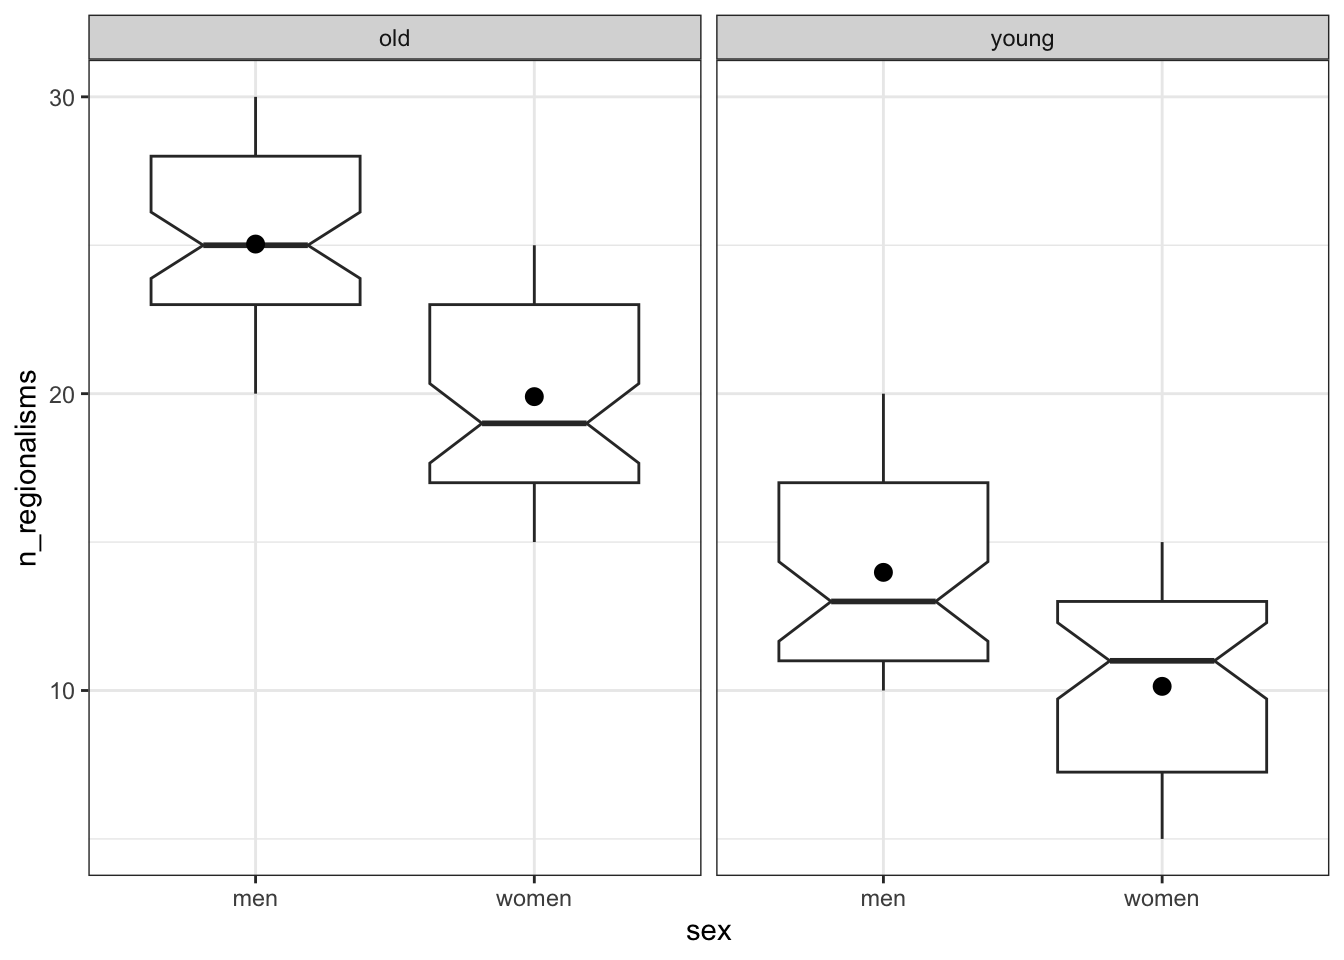
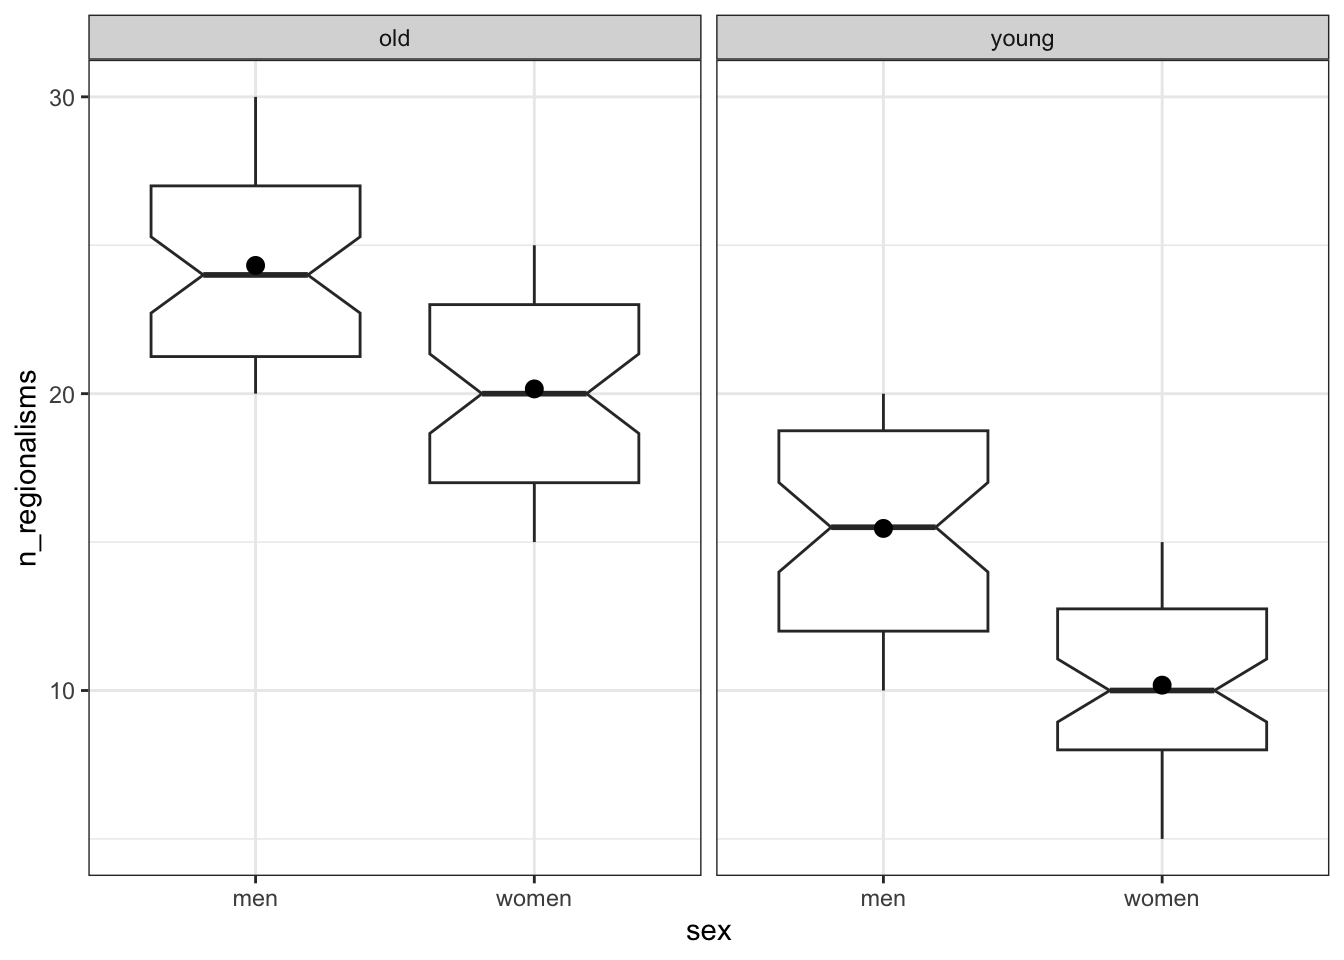
capitalization

diff --git a/docs/lessons/mixed-effects-logistic.html b/docs/lessons/mixed-effects-logistic.html
@@ -7,7 +7,7 @@
 <meta name="viewport" content="width=device-width, initial-scale=1.0, user-scalable=yes">
 
 
-<title>Lesson Plans for Linguistic Data Analysis with R - mixed-effects-logistic</title>
+<title>Lesson Plans for Linguistic Data Analysis with R - Mixed-effects logistic regression</title>
 <style>
 code{white-space: pre-wrap;}
 span.smallcaps{font-variant: small-caps;}
@@ -108,7 +108,7 @@ pre > code.sourceCode > span > a:first-child::before { text-decoration: underlin
       <button type="button" class="quarto-btn-toggle btn" data-bs-toggle="collapse" data-bs-target="#quarto-sidebar,#quarto-sidebar-glass" aria-controls="quarto-sidebar" aria-expanded="false" aria-label="Toggle sidebar navigation" onclick="if (window.quartoToggleHeadroom) { window.quartoToggleHeadroom(); }">
         <i class="bi bi-layout-text-sidebar-reverse"></i>
       </button>
-      <nav class="quarto-page-breadcrumbs" aria-label="breadcrumb"><ol class="breadcrumb"><li class="breadcrumb-item"><a href="../lessons/t-test.html">Inferential stats</a></li><li class="breadcrumb-item"><a href="../lessons/mixed-effects-logistic.html">mixed-effects-logistic</a></li></ol></nav>
+      <nav class="quarto-page-breadcrumbs" aria-label="breadcrumb"><ol class="breadcrumb"><li class="breadcrumb-item"><a href="../lessons/t-test.html">Inferential stats</a></li><li class="breadcrumb-item"><a href="../lessons/mixed-effects-logistic.html">Mixed-effects logistic regression</a></li></ol></nav>
       <a class="flex-grow-1" role="button" data-bs-toggle="collapse" data-bs-target="#quarto-sidebar,#quarto-sidebar-glass" aria-controls="quarto-sidebar" aria-expanded="false" aria-label="Toggle sidebar navigation" onclick="if (window.quartoToggleHeadroom) { window.quartoToggleHeadroom(); }">      
       </a>
       <button type="button" class="btn quarto-search-button" aria-label="" onclick="window.quartoOpenSearch();">
@@ -366,7 +366,7 @@ pre > code.sourceCode > span > a:first-child::before { text-decoration: underlin
           <li class="sidebar-item">
   <div class="sidebar-item-container"> 
   <a href="../lessons/mixed-effects-logistic.html" class="sidebar-item-text sidebar-link active">
- <span class="menu-text">mixed-effects-logistic</span></a>
+ <span class="menu-text">Mixed-effects logistic regression</span></a>
   </div>
 </li>
       </ul>
@@ -392,7 +392,7 @@ pre > code.sourceCode > span > a:first-child::before { text-decoration: underlin
 
 <header id="title-block-header" class="quarto-title-block default">
 <div class="quarto-title">
-<h1 class="title">mixed-effects-logistic</h1>
+<h1 class="title">Mixed-effects logistic regression</h1>
 </div>
 
 

diff --git a/docs/lessons/interaction.html b/docs/lessons/interaction.html
@@ -368,7 +368,7 @@ pre > code.sourceCode > span > a:first-child::before { text-decoration: underlin
           <li class="sidebar-item">
   <div class="sidebar-item-container"> 
   <a href="../lessons/mixed-effects-logistic.html" class="sidebar-item-text sidebar-link">
- <span class="menu-text">mixed-effects-logistic</span></a>
+ <span class="menu-text">Mixed-effects logistic regression</span></a>
   </div>
 </li>
       </ul>
@@ -636,24 +636,24 @@ lm(formula = n_regionalisms ~ age_group + sex + age_group:sex,
 
 Residuals:
    Min     1Q Median     3Q    Max 
- -5.14  -2.98  -0.09   3.02   6.02 
+ -5.46  -3.16  -0.17   2.82   5.68 
 
 Coefficients:
                         Estimate Std. Error t value Pr(&gt;|t|)    
-(Intercept)              25.0400     0.4591  54.544  &lt; 2e-16 ***
-age_groupyoung          -11.0600     0.6492 -17.035  &lt; 2e-16 ***
-sexwomen                 -5.1400     0.6492  -7.917 1.77e-13 ***
-age_groupyoung:sexwomen   1.3000     0.9182   1.416    0.158    
+(Intercept)              24.3200     0.4575  53.156  &lt; 2e-16 ***
+age_groupyoung           -8.8600     0.6470 -13.693  &lt; 2e-16 ***
+sexwomen                 -4.1600     0.6470  -6.429 9.56e-10 ***
+age_groupyoung:sexwomen  -1.1200     0.9150  -1.224    0.222    
 ---
 Signif. codes:  0 '***' 0.001 '**' 0.01 '*' 0.05 '.' 0.1 ' ' 1
 
-Residual standard error: 3.246 on 196 degrees of freedom
-Multiple R-squared:  0.7574,    Adjusted R-squared:  0.7537 
-F-statistic: 203.9 on 3 and 196 DF,  p-value: &lt; 2.2e-16</code></pre>
+Residual standard error: 3.235 on 196 degrees of freedom
+Multiple R-squared:  0.7307,    Adjusted R-squared:  0.7266 
+F-statistic: 177.3 on 3 and 196 DF,  p-value: &lt; 2.2e-16</code></pre>
 </div>
 <div class="sourceCode cell-code" id="cb23"><pre class="sourceCode r code-with-copy"><code class="sourceCode r"><span id="cb23-1"><a href="#cb23-1" aria-hidden="true" tabindex="-1"></a><span class="fu">AIC</span>(m3)</span></code><button title="Copy to Clipboard" class="code-copy-button"><i class="bi"></i></button></pre></div>
 <div class="cell-output cell-output-stdout">
-<pre><code>[1] 1044.53</code></pre>
+<pre><code>[1] 1043.167</code></pre>
 </div>
 </div>
 <p>The interaction term was <strong>not</strong> selected as making a significant contribution to the prediction of the number of regionalisms in this second set of fictitious data.</p>

diff --git a/docs/lessons/anova.html b/docs/lessons/anova.html
@@ -368,7 +368,7 @@ pre > code.sourceCode > span > a:first-child::before { text-decoration: underlin
           <li class="sidebar-item">
   <div class="sidebar-item-container"> 
   <a href="../lessons/mixed-effects-logistic.html" class="sidebar-item-text sidebar-link">
- <span class="menu-text">mixed-effects-logistic</span></a>
+ <span class="menu-text">Mixed-effects logistic regression</span></a>
   </div>
 </li>
       </ul>

diff --git a/docs/lessons/chi-square.html b/docs/lessons/chi-square.html
@@ -368,7 +368,7 @@ pre > code.sourceCode > span > a:first-child::before { text-decoration: underlin
           <li class="sidebar-item">
   <div class="sidebar-item-container"> 
   <a href="../lessons/mixed-effects-logistic.html" class="sidebar-item-text sidebar-link">
- <span class="menu-text">mixed-effects-logistic</span></a>
+ <span class="menu-text">Mixed-effects logistic regression</span></a>
   </div>
 </li>
       </ul>

diff --git a/docs/lessons/create_freq.html b/docs/lessons/create_freq.html
@@ -366,7 +366,7 @@ pre > code.sourceCode > span > a:first-child::before { text-decoration: underlin
           <li class="sidebar-item">
   <div class="sidebar-item-container"> 
   <a href="../lessons/mixed-effects-logistic.html" class="sidebar-item-text sidebar-link">
- <span class="menu-text">mixed-effects-logistic</span></a>
+ <span class="menu-text">Mixed-effects logistic regression</span></a>
   </div>
 </li>
       </ul>

diff --git a/docs/lessons/linear_regression.html b/docs/lessons/linear_regression.html
@@ -368,7 +368,7 @@ pre > code.sourceCode > span > a:first-child::before { text-decoration: underlin
           <li class="sidebar-item">
   <div class="sidebar-item-container"> 
   <a href="../lessons/mixed-effects-logistic.html" class="sidebar-item-text sidebar-link">
- <span class="menu-text">mixed-effects-logistic</span></a>
+ <span class="menu-text">Mixed-effects logistic regression</span></a>
   </div>
 </li>
       </ul>

diff --git a/docs/lessons/logistic_regression.html b/docs/lessons/logistic_regression.html
@@ -368,7 +368,7 @@ pre > code.sourceCode > span > a:first-child::before { text-decoration: underlin
           <li class="sidebar-item">
   <div class="sidebar-item-container"> 
   <a href="../lessons/mixed-effects-logistic.html" class="sidebar-item-text sidebar-link">
- <span class="menu-text">mixed-effects-logistic</span></a>
+ <span class="menu-text">Mixed-effects logistic regression</span></a>
   </div>
 </li>
       </ul>

diff --git a/docs/lessons/mixed-effects-linear.html b/docs/lessons/mixed-effects-linear.html
@@ -368,7 +368,7 @@ pre > code.sourceCode > span > a:first-child::before { text-decoration: underlin
           <li class="sidebar-item">
   <div class="sidebar-item-container"> 
   <a href="../lessons/mixed-effects-logistic.html" class="sidebar-item-text sidebar-link">
- <span class="menu-text">mixed-effects-logistic</span></a>
+ <span class="menu-text">Mixed-effects logistic regression</span></a>
   </div>
 </li>
       </ul>

diff --git a/docs/lessons/multicollinearity.html b/docs/lessons/multicollinearity.html
@@ -366,7 +366,7 @@ pre > code.sourceCode > span > a:first-child::before { text-decoration: underlin
           <li class="sidebar-item">
   <div class="sidebar-item-container"> 
   <a href="../lessons/mixed-effects-logistic.html" class="sidebar-item-text sidebar-link">
- <span class="menu-text">mixed-effects-logistic</span></a>
+ <span class="menu-text">Mixed-effects logistic regression</span></a>
   </div>
 </li>
       </ul>

diff --git a/docs/lessons/outliers.html b/docs/lessons/outliers.html
@@ -368,7 +368,7 @@ pre > code.sourceCode > span > a:first-child::before { text-decoration: underlin
           <li class="sidebar-item">
   <div class="sidebar-item-container"> 
   <a href="../lessons/mixed-effects-logistic.html" class="sidebar-item-text sidebar-link">
- <span class="menu-text">mixed-effects-logistic</span></a>
+ <span class="menu-text">Mixed-effects logistic regression</span></a>
   </div>
 </li>
       </ul>

diff --git a/docs/lessons/programming_basics.html b/docs/lessons/programming_basics.html
@@ -366,7 +366,7 @@ pre > code.sourceCode > span > a:first-child::before { text-decoration: underlin
           <li class="sidebar-item">
   <div class="sidebar-item-container"> 
   <a href="../lessons/mixed-effects-logistic.html" class="sidebar-item-text sidebar-link">
- <span class="menu-text">mixed-effects-logistic</span></a>
+ <span class="menu-text">Mixed-effects logistic regression</span></a>
   </div>
 </li>
       </ul>

diff --git a/docs/lessons/python.html b/docs/lessons/python.html
@@ -366,7 +366,7 @@ pre > code.sourceCode > span > a:first-child::before { text-decoration: underlin
           <li class="sidebar-item">
   <div class="sidebar-item-container"> 
   <a href="../lessons/mixed-effects-logistic.html" class="sidebar-item-text sidebar-link">
- <span class="menu-text">mixed-effects-logistic</span></a>
+ <span class="menu-text">Mixed-effects logistic regression</span></a>
   </div>
 </li>
       </ul>
